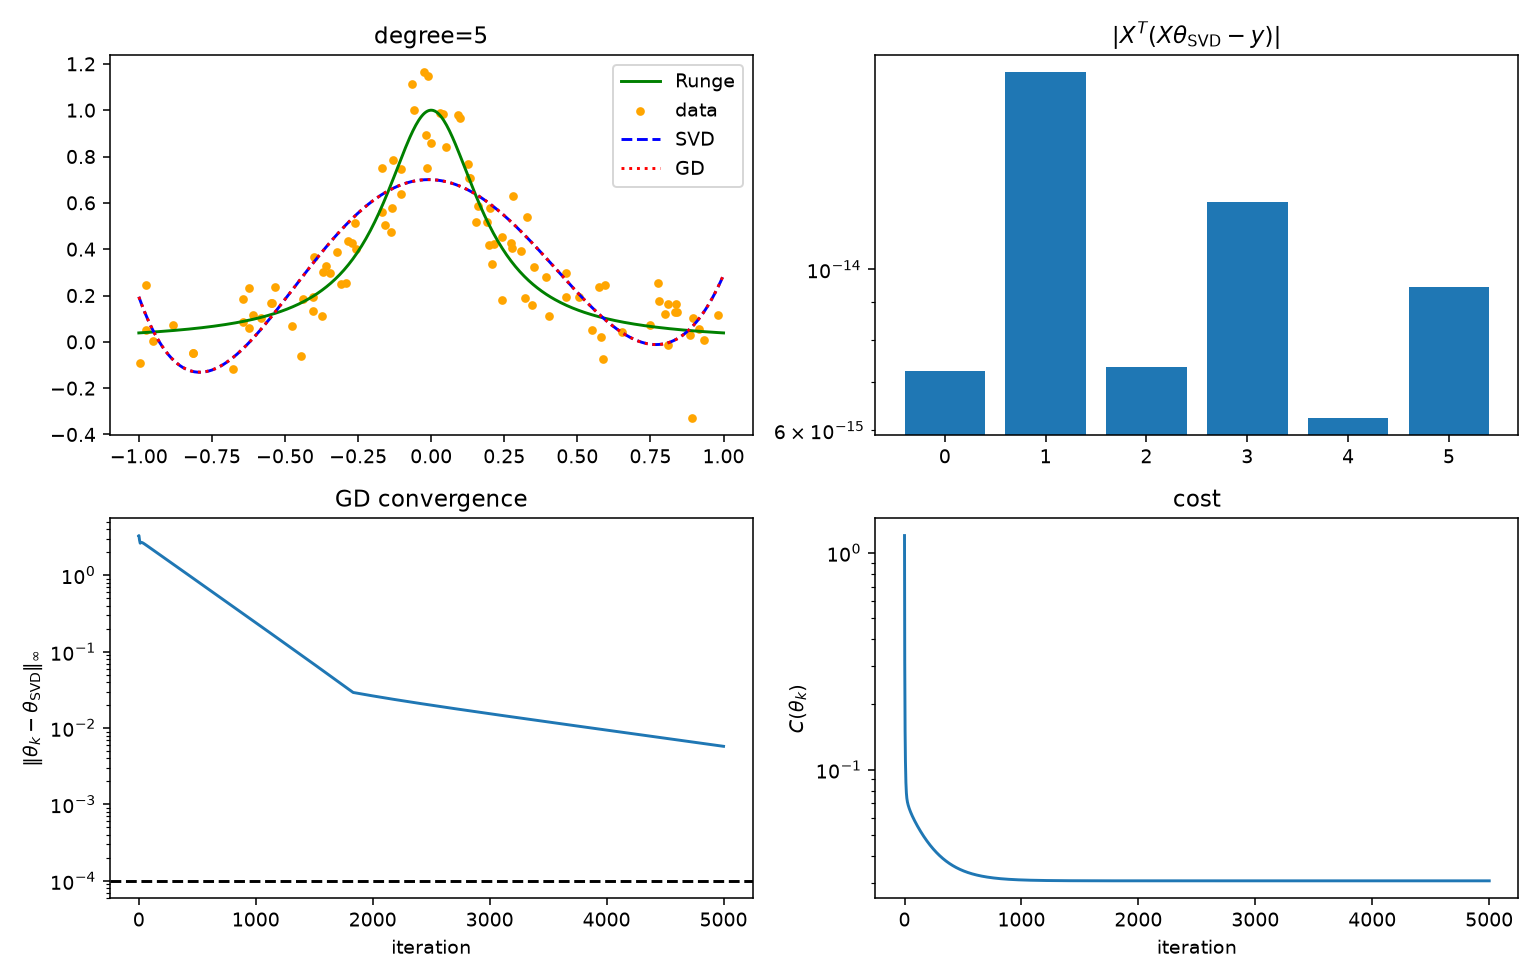
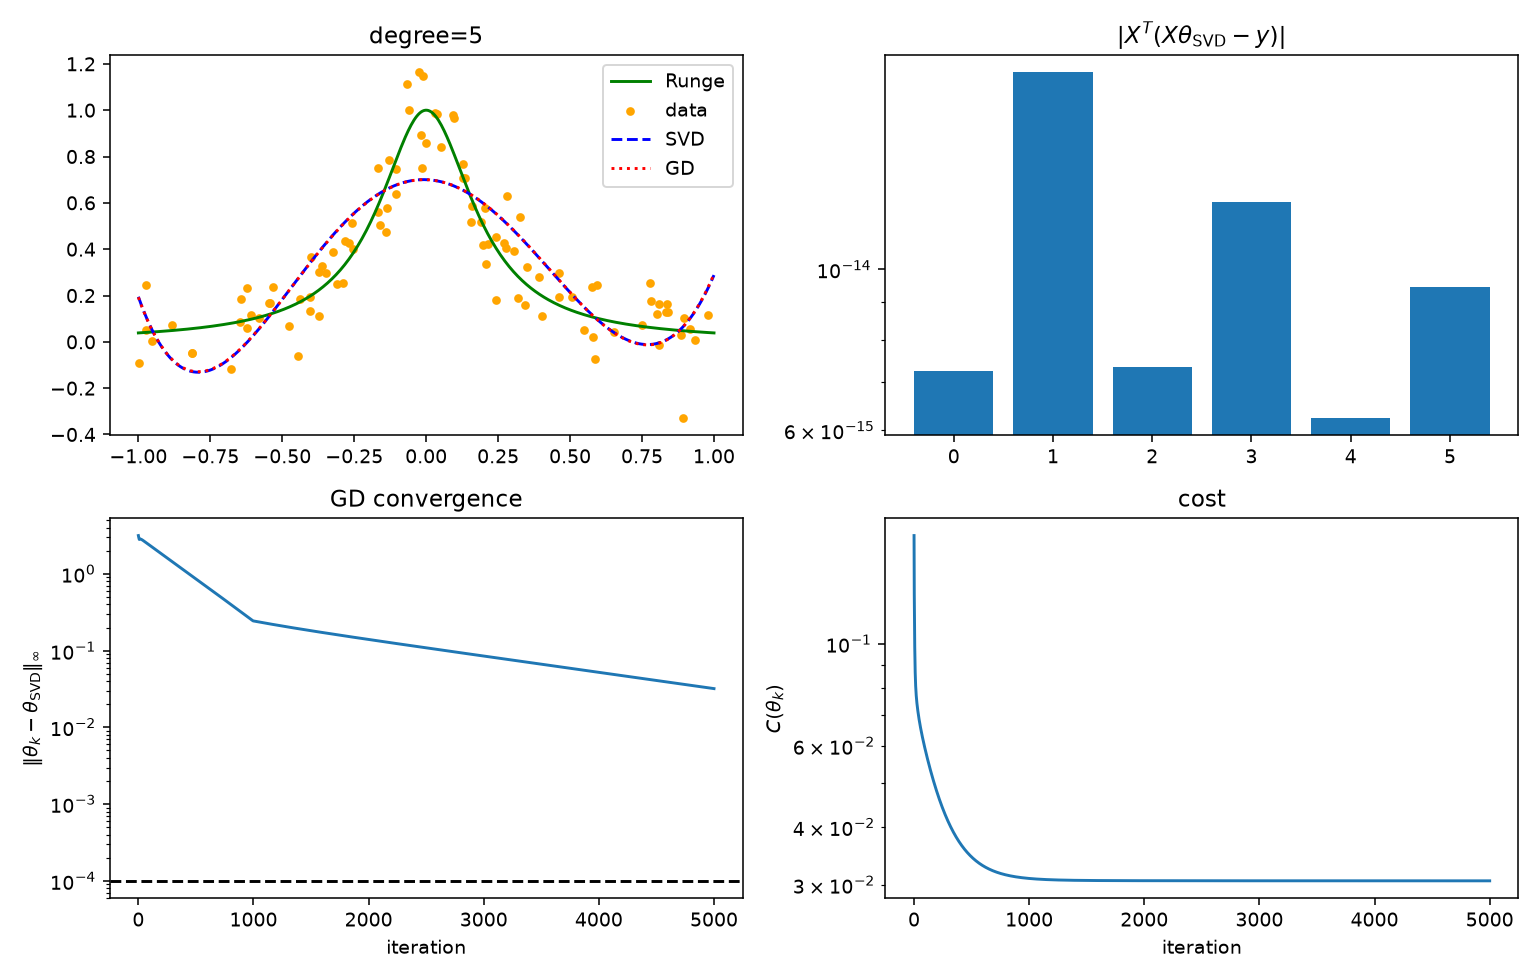
plot working still suspecious about the GD version

diff --git a/Project1/results/tests.py b/Project1/results/tests.py
@@ -21,11 +21,12 @@ xx = np.linspace(-1, 1, 400)
 Xx = design_matrix(xx, degree, intercept=True)
 
 # ------------- Compare two solutions -------------------
-theta0 = np.random.normal(size=X.shape[1])
-eta = 0.5* eta_max_ols(X, X.shape[0])
+rng = np.random.default_rng(0)
+theta0 = rng.normal(size=X.shape[1])
+eta_safe = 0.5* eta_max_ols(X, X.shape[0])
 
 theta_ols_svd = fit_ols_SVD(X, y, rcond=1e-12) # "analytical" (closed form)
-theta_gd,hist = gd(grad_ols_analytic, theta0, n_iter=5000, eta=1e-3, X=X, y=y) # iterative (gradient descent)
+theta_gd,hist = gd(grad_ols_analytic, theta0, n_iter=5000, eta=eta_safe, X=X, y=y) # iterative (gradient descent)
 
 # =================================================================
 # (1) GRADIENT CHECK:  analytic vs JAX AD, at the same theta
